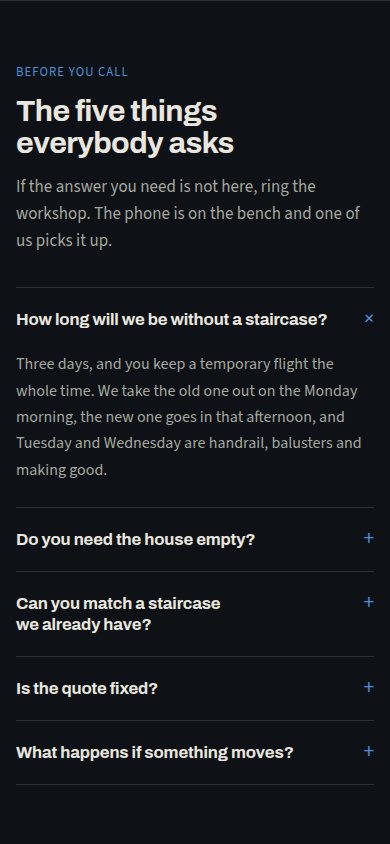
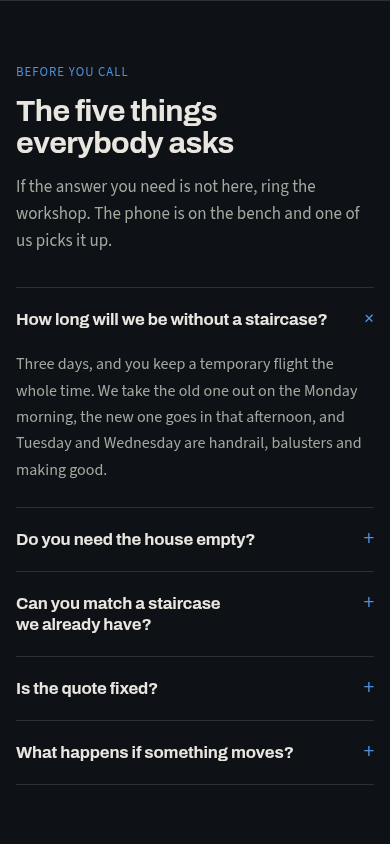
feat(craft): sections size to their container, not the viewport

diff --git a/skills/wp-demo-craft/compositions/faq-list/section.html b/skills/wp-demo-craft/compositions/faq-list/section.html
@@ -1,31 +1,33 @@
 <!-- ============ SECTION: FAQ ============ -->
-<section id="faq" class="faq-list" data-motion="reveal" data-motion-stagger="60">
-  <header class="faq-list__head">
-    <p class="faq-list__kicker">{{kicker}}</p>
-    <h2 class="faq-list__title">{{title}}</h2>
-    <p class="faq-list__lede">{{lede}}</p>
-  </header>
-  <div class="faq-list__list">
-    <details class="faq-list__item" name="faq-list" open>
-      <summary class="faq-list__q">{{q1}}</summary>
-      <div class="faq-list__a"><p>{{a1}}</p></div>
-    </details>
-    <details class="faq-list__item" name="faq-list">
-      <summary class="faq-list__q">{{q2}}</summary>
-      <div class="faq-list__a"><p>{{a2}}</p></div>
-    </details>
-    <details class="faq-list__item" name="faq-list">
-      <summary class="faq-list__q">{{q3}}</summary>
-      <div class="faq-list__a"><p>{{a3}}</p></div>
-    </details>
-    <details class="faq-list__item" name="faq-list">
-      <summary class="faq-list__q">{{q4}}</summary>
-      <div class="faq-list__a"><p>{{a4}}</p></div>
-    </details>
-    <details class="faq-list__item" name="faq-list">
-      <summary class="faq-list__q">{{q5}}</summary>
-      <div class="faq-list__a"><p>{{a5}}</p></div>
-    </details>
+<section id="faq" class="faq-list">
+  <div class="faq-list__inner" data-motion="reveal" data-motion-stagger="60">
+    <header class="faq-list__head">
+      <p class="faq-list__kicker">{{kicker}}</p>
+      <h2 class="faq-list__title">{{title}}</h2>
+      <p class="faq-list__lede">{{lede}}</p>
+    </header>
+    <div class="faq-list__list">
+      <details class="faq-list__item" name="faq-list" open>
+        <summary class="faq-list__q">{{q1}}</summary>
+        <div class="faq-list__a"><p>{{a1}}</p></div>
+      </details>
+      <details class="faq-list__item" name="faq-list">
+        <summary class="faq-list__q">{{q2}}</summary>
+        <div class="faq-list__a"><p>{{a2}}</p></div>
+      </details>
+      <details class="faq-list__item" name="faq-list">
+        <summary class="faq-list__q">{{q3}}</summary>
+        <div class="faq-list__a"><p>{{a3}}</p></div>
+      </details>
+      <details class="faq-list__item" name="faq-list">
+        <summary class="faq-list__q">{{q4}}</summary>
+        <div class="faq-list__a"><p>{{a4}}</p></div>
+      </details>
+      <details class="faq-list__item" name="faq-list">
+        <summary class="faq-list__q">{{q5}}</summary>
+        <div class="faq-list__a"><p>{{a5}}</p></div>
+      </details>
+    </div>
   </div>
 </section>
 <!-- ============ END SECTION: FAQ ============ -->

diff --git a/skills/wp-demo-craft/compositions/hero-split/section.css b/skills/wp-demo-craft/compositions/hero-split/section.css
@@ -3,11 +3,18 @@
    without it `min-height: 100dvh` measures the content box and the padding is
    added on top, so the hero comes out a third taller than the screen. */
 .hero-split, .hero-split *, .hero-split *::before, .hero-split *::after { box-sizing: border-box; }
+/* The root is the containment context, and an element never matches a query against
+   its own container — so the split itself lives one level in, on __inner. The root
+   keeps the screen height so the hero still fills its first paint. */
 .hero-split {
+  container-type: inline-size;
+  display: grid;
+  min-height: 100dvh;
+}
+.hero-split__inner {
   display: grid;
   gap: var(--space-gutter);
   padding: calc(var(--space-section) * 0.75) var(--space-gutter) var(--space-section);
-  min-height: 100dvh;
   align-content: center;
 }
 .hero-split__kicker {
@@ -56,8 +63,8 @@
 .hero-split__cta:focus-visible, .hero-split__alt:focus-visible { outline: 2px solid var(--color-accent); outline-offset: 3px; }
 .hero-split__media { margin: 0; overflow: hidden; border-radius: var(--radius-md); }
 .hero-split__media img { width: 100%; height: auto; display: block; object-fit: cover; aspect-ratio: 4 / 5; }
-@media (min-width: 900px) {
-  .hero-split { grid-template-columns: 1.1fr 0.9fr; align-items: center; }
+@container (min-width: 900px) {
+  .hero-split__inner { grid-template-columns: 1.1fr 0.9fr; align-items: center; }
   .hero-split__media { margin-right: calc(var(--space-gutter) * -1); border-radius: var(--radius-md) 0 0 var(--radius-md); }
   /* The 4:5 crop is taller than the viewport at desktop widths; without a ceiling the
      hero grows past 100dvh and the headline leaves the first screen. */

diff --git a/skills/wp-demo-craft/compositions/hero-type/section.css b/skills/wp-demo-craft/compositions/hero-type/section.css
@@ -2,9 +2,16 @@
 /* Scoped reset: a composition cannot assume the host page carries one, and without
    it `min-height: 100dvh` measures the content box and adds the padding on top. */
 .hero-type, .hero-type *, .hero-type *::before, .hero-type *::after { box-sizing: border-box; }
+/* The root is the containment context, and an element never matches a query against
+   its own container — so the anchoring that changes with width lives one level in,
+   on __inner. The root keeps the screen height. */
 .hero-type {
+  container-type: inline-size;
   display: grid;
   min-height: 100dvh;
+}
+.hero-type__inner {
+  display: grid;
   /* Centred on a phone: bottom-anchoring a 400px block inside an 844px screen
      leaves half the first paint empty, which is the failure this library exists
      to stop. The held-breath version starts where there is room for it. */
@@ -58,12 +65,12 @@
 }
 .hero-type__cta:active { transform: scale(0.97); }
 .hero-type__cta:focus-visible { outline: 2px solid var(--color-accent); outline-offset: 3px; }
-@media (min-width: 720px) {
+@container (min-width: 720px) {
   /* Bottom-anchored where there is room: the silence above the type is the
      composition. Centred, the same words read as a block that failed to fill. */
-  .hero-type { align-content: end; padding: calc(var(--space-section) * 1.4) var(--space-gutter) var(--space-section); }
+  .hero-type__inner { align-content: end; padding: calc(var(--space-section) * 1.4) var(--space-gutter) var(--space-section); }
 }
-@media (min-width: 900px) {
+@container (min-width: 900px) {
   .hero-type__title { max-width: 15ch; }
 }
 @media (prefers-reduced-motion: reduce) {

diff --git a/skills/wp-demo-craft/compositions/hero-split/section.html b/skills/wp-demo-craft/compositions/hero-split/section.html
@@ -1,17 +1,19 @@
 <!-- ============ SECTION: Hero ============ -->
-<section id="hero" class="hero-split" data-motion="reveal" data-motion-stagger="60">
-  <div class="hero-split__copy">
-    <p class="hero-split__kicker">{{kicker}}</p>
-    <h1 class="hero-split__title">{{title}}</h1>
-    <p class="hero-split__lede">{{lede}}</p>
-    <div class="hero-split__actions">
-      <a class="hero-split__cta" href="{{cta_href}}">{{cta_label}}</a>
-      <a class="hero-split__alt" href="{{alt_href}}">{{alt_label}}</a>
+<section id="hero" class="hero-split">
+  <div class="hero-split__inner" data-motion="reveal" data-motion-stagger="60">
+    <div class="hero-split__copy">
+      <p class="hero-split__kicker">{{kicker}}</p>
+      <h1 class="hero-split__title">{{title}}</h1>
+      <p class="hero-split__lede">{{lede}}</p>
+      <div class="hero-split__actions">
+        <a class="hero-split__cta" href="{{cta_href}}">{{cta_label}}</a>
+        <a class="hero-split__alt" href="{{alt_href}}">{{alt_label}}</a>
+      </div>
     </div>
+    <figure class="hero-split__media">
+      <img src="{{image_src}}" alt="{{image_alt}}" width="1200" height="1500"
+           data-motion="parallax" data-motion-rate="0.35" fetchpriority="high">
+    </figure>
   </div>
-  <figure class="hero-split__media">
-    <img src="{{image_src}}" alt="{{image_alt}}" width="1200" height="1500"
-         data-motion="parallax" data-motion-rate="0.35" fetchpriority="high">
-  </figure>
 </section>
 <!-- ============ END SECTION: Hero ============ -->

diff --git a/skills/wp-demo-craft/compositions/footer-line/section.html b/skills/wp-demo-craft/compositions/footer-line/section.html
@@ -1,13 +1,15 @@
 <!-- ============ SECTION: Footer ============ -->
 <footer id="footer" class="footer-line">
-  <p class="footer-line__wordmark">{{wordmark}}</p>
-  <nav class="footer-line__nav" aria-label="{{nav_label}}">
-    <ul class="footer-line__links">
-      <li><a class="footer-line__link" href="{{href_1}}">{{link_1}}</a></li>
-      <li><a class="footer-line__link" href="{{href_2}}">{{link_2}}</a></li>
-      <li><a class="footer-line__link" href="{{href_3}}">{{link_3}}</a></li>
-    </ul>
-  </nav>
-  <p class="footer-line__legal">{{legal_line}}</p>
+  <div class="footer-line__inner">
+    <p class="footer-line__wordmark">{{wordmark}}</p>
+    <nav class="footer-line__nav" aria-label="{{nav_label}}">
+      <ul class="footer-line__links">
+        <li><a class="footer-line__link" href="{{href_1}}">{{link_1}}</a></li>
+        <li><a class="footer-line__link" href="{{href_2}}">{{link_2}}</a></li>
+        <li><a class="footer-line__link" href="{{href_3}}">{{link_3}}</a></li>
+      </ul>
+    </nav>
+    <p class="footer-line__legal">{{legal_line}}</p>
+  </div>
 </footer>
 <!-- ============ END SECTION: Footer ============ -->

diff --git a/skills/wp-demo-craft/compositions/faq-list/section.css b/skills/wp-demo-craft/compositions/faq-list/section.css
@@ -1,9 +1,15 @@
 /* ====== Section: FAQ (faq-list) ====== */
 .faq-list, .faq-list *, .faq-list *::before, .faq-list *::after { box-sizing: border-box; }
+/* The root is the containment context, and an element never matches a query against
+   its own container — so the layout that changes with width lives one level in, on
+   __inner. The root keeps only what does not move: the band and its padding. */
 .faq-list {
+  container-type: inline-size;
   padding: var(--space-section) var(--space-gutter);
   background: var(--color-canvas);
   border-top: 1px solid var(--color-hairline);
+}
+.faq-list__inner {
   display: grid;
   gap: clamp(2rem, 4vw, 3.5rem);
 }
@@ -75,8 +81,8 @@
   text-wrap: pretty;
   max-width: 62ch;
 }
-@media (min-width: 980px) {
-  .faq-list { grid-template-columns: minmax(16rem, 22rem) 1fr; align-items: start; gap: clamp(2rem, 5vw, 5rem); }
+@container (min-width: 980px) {
+  .faq-list__inner { grid-template-columns: minmax(16rem, 22rem) 1fr; align-items: start; gap: clamp(2rem, 5vw, 5rem); }
 }
 @media (prefers-reduced-motion: reduce) {
   .faq-list__q, .faq-list__q::after { transition: none; }

diff --git a/skills/wp-demo-craft/compositions/footer-line/section.css b/skills/wp-demo-craft/compositions/footer-line/section.css
@@ -1,11 +1,17 @@
 /* ====== Section: Footer (footer-line) ====== */
 .footer-line, .footer-line *, .footer-line *::before, .footer-line *::after { box-sizing: border-box; }
+/* The root is the containment context, and an element never matches a query against
+   its own container — so the row that only forms when there is width for it lives one
+   level in, on __inner. */
 .footer-line {
-  display: grid;
-  gap: 1.25rem;
+  container-type: inline-size;
   padding: calc(var(--space-section) * 0.5) var(--space-gutter);
   background: var(--color-canvas);
   border-top: 1px solid var(--color-hairline);
+}
+.footer-line__inner {
+  display: grid;
+  gap: 1.25rem;
 }
 .footer-line__wordmark {
   font-family: var(--font-display);
@@ -45,8 +51,8 @@
   max-width: 60ch;
   margin: 0;
 }
-@media (min-width: 720px) {
-  .footer-line {
+@container (min-width: 720px) {
+  .footer-line__inner {
     grid-template-columns: auto 1fr auto;
     align-items: center;
     gap: var(--space-gutter);

diff --git a/skills/wp-demo-craft/compositions/offer-table/section.css b/skills/wp-demo-craft/compositions/offer-table/section.css
@@ -1,6 +1,7 @@
 /* ====== Section: Pricing (offer-table) ====== */
 .offer-table, .offer-table *, .offer-table *::before, .offer-table *::after { box-sizing: border-box; }
 .offer-table {
+  container-type: inline-size;
   padding: var(--space-section) var(--space-gutter);
   background: var(--color-canvas);
   border-top: 1px solid var(--color-hairline);
@@ -130,11 +131,11 @@
 }
 /* Cell padding is the whole phone budget: at 1.25rem a side, six half-gutters push
    the table past 390px and it scrolls sideways. It grows back where there is room. */
-@media (min-width: 560px) {
+@container (min-width: 560px) {
   .offer-table__plan, .offer-table__cell { padding-left: 1.25rem; padding-right: 1.25rem; }
   .offer-table__row-label { padding-right: 1.25rem; }
 }
-@media (min-width: 700px) {
+@container (min-width: 700px) {
   .offer-table__plan, .offer-table__cell { padding-left: 1.5rem; padding-right: 1.5rem; }
   .offer-table__row-label { padding-right: 1.5rem; }
 }

diff --git a/skills/wp-demo-craft/compositions/footer-columns/section.css b/skills/wp-demo-craft/compositions/footer-columns/section.css
@@ -1,6 +1,7 @@
 /* ====== Section: Footer (footer-columns) ====== */
 .footer-columns, .footer-columns *, .footer-columns *::before, .footer-columns *::after { box-sizing: border-box; }
 .footer-columns {
+  container-type: inline-size;
   padding: var(--space-section) var(--space-gutter) calc(var(--space-section) * 0.5);
   background: var(--color-surface);
   border-top: 1px solid var(--color-hairline);
@@ -62,7 +63,7 @@
 .footer-columns__copyright { font-size: 0.8125rem; line-height: 1.5; color: var(--color-ink-soft); margin: 0; }
 .footer-columns__legal-links { list-style: none; margin: 0; padding: 0; display: flex; flex-wrap: wrap; gap: 0.75rem 1.5rem; }
 .footer-columns__legal-links .footer-columns__link { font-size: 0.8125rem; color: var(--color-ink-soft); }
-@media (min-width: 720px) {
+@container (min-width: 720px) {
   .footer-columns__top { grid-template-columns: 1.4fr 1fr 1fr 1.2fr; }
 }
 @media (prefers-reduced-motion: reduce) {

diff --git a/skills/wp-demo-craft/compositions/feature-zigzag/section.css b/skills/wp-demo-craft/compositions/feature-zigzag/section.css
@@ -1,6 +1,7 @@
 /* ====== Section: Features (feature-zigzag) ====== */
 .feature-zigzag, .feature-zigzag *, .feature-zigzag *::before, .feature-zigzag *::after { box-sizing: border-box; }
 .feature-zigzag {
+  container-type: inline-size;
   padding: var(--space-section) var(--space-gutter);
   display: grid;
   gap: clamp(3rem, 6vw, 6rem);
@@ -76,7 +77,7 @@
 }
 .feature-zigzag__link:active { transform: scale(0.98); }
 .feature-zigzag__link:focus-visible { outline: 2px solid var(--color-accent); outline-offset: 4px; border-radius: var(--radius-sm); }
-@media (min-width: 880px) {
+@container (min-width: 880px) {
   .feature-zigzag__item { grid-template-columns: 1fr 1fr; }
   /* The flip is `direction` on the grid, so the source order stays image-then-copy
      and a screen reader reads both rows the same way round. */

diff --git a/skills/wp-demo-craft/compositions/hero-type/section.html b/skills/wp-demo-craft/compositions/hero-type/section.html
@@ -1,8 +1,10 @@
 <!-- ============ SECTION: Hero ============ -->
-<section id="hero" class="hero-type" data-motion="reveal" data-motion-stagger="70">
-  <p class="hero-type__kicker">{{kicker}}</p>
-  <h1 class="hero-type__title">{{title}}</h1>
-  <p class="hero-type__lede">{{lede}}</p>
-  <p class="hero-type__actions"><a class="hero-type__cta" href="{{cta_href}}">{{cta_label}}</a></p>
+<section id="hero" class="hero-type">
+  <div class="hero-type__inner" data-motion="reveal" data-motion-stagger="70">
+    <p class="hero-type__kicker">{{kicker}}</p>
+    <h1 class="hero-type__title">{{title}}</h1>
+    <p class="hero-type__lede">{{lede}}</p>
+    <p class="hero-type__actions"><a class="hero-type__cta" href="{{cta_href}}">{{cta_label}}</a></p>
+  </div>
 </section>
 <!-- ============ END SECTION: Hero ============ -->

diff --git a/skills/wp-demo-craft/compositions/testimonial-pair/section.css b/skills/wp-demo-craft/compositions/testimonial-pair/section.css
@@ -1,6 +1,7 @@
 /* ====== Section: Testimonials (testimonial-pair) ====== */
 .testimonial-pair, .testimonial-pair *, .testimonial-pair *::before, .testimonial-pair *::after { box-sizing: border-box; }
 .testimonial-pair {
+  container-type: inline-size;
   position: relative;
   isolation: isolate;
   padding: var(--space-section) var(--space-gutter);
@@ -83,6 +84,6 @@
 }
 .testimonial-pair__name { font-weight: 600; font-size: 0.9375rem; color: var(--color-ink); }
 .testimonial-pair__place { font-size: 0.875rem; color: var(--color-ink-soft); }
-@media (min-width: 840px) {
+@container (min-width: 840px) {
   .testimonial-pair__grid { grid-template-columns: 1fr 1fr; }
 }
